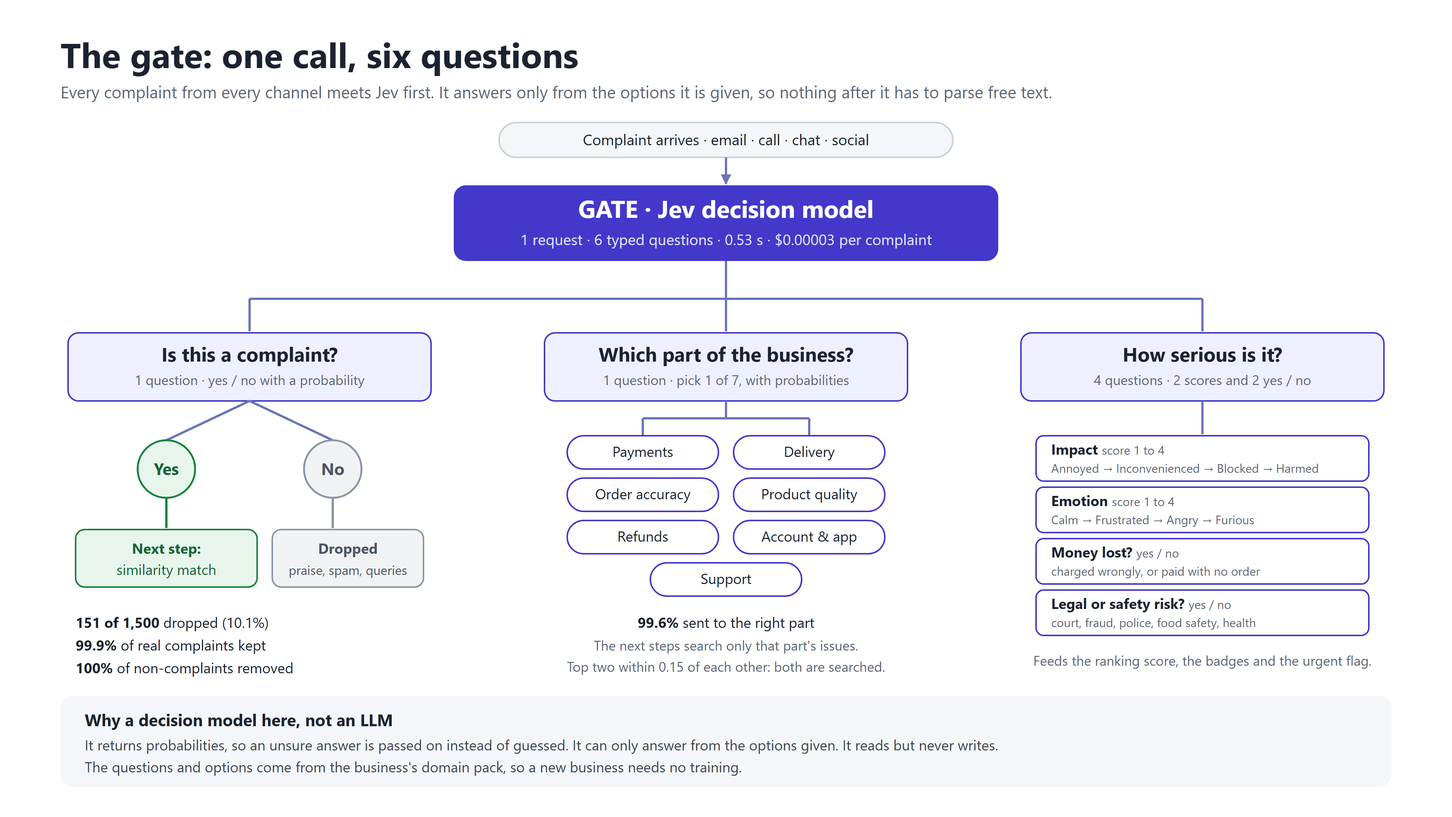
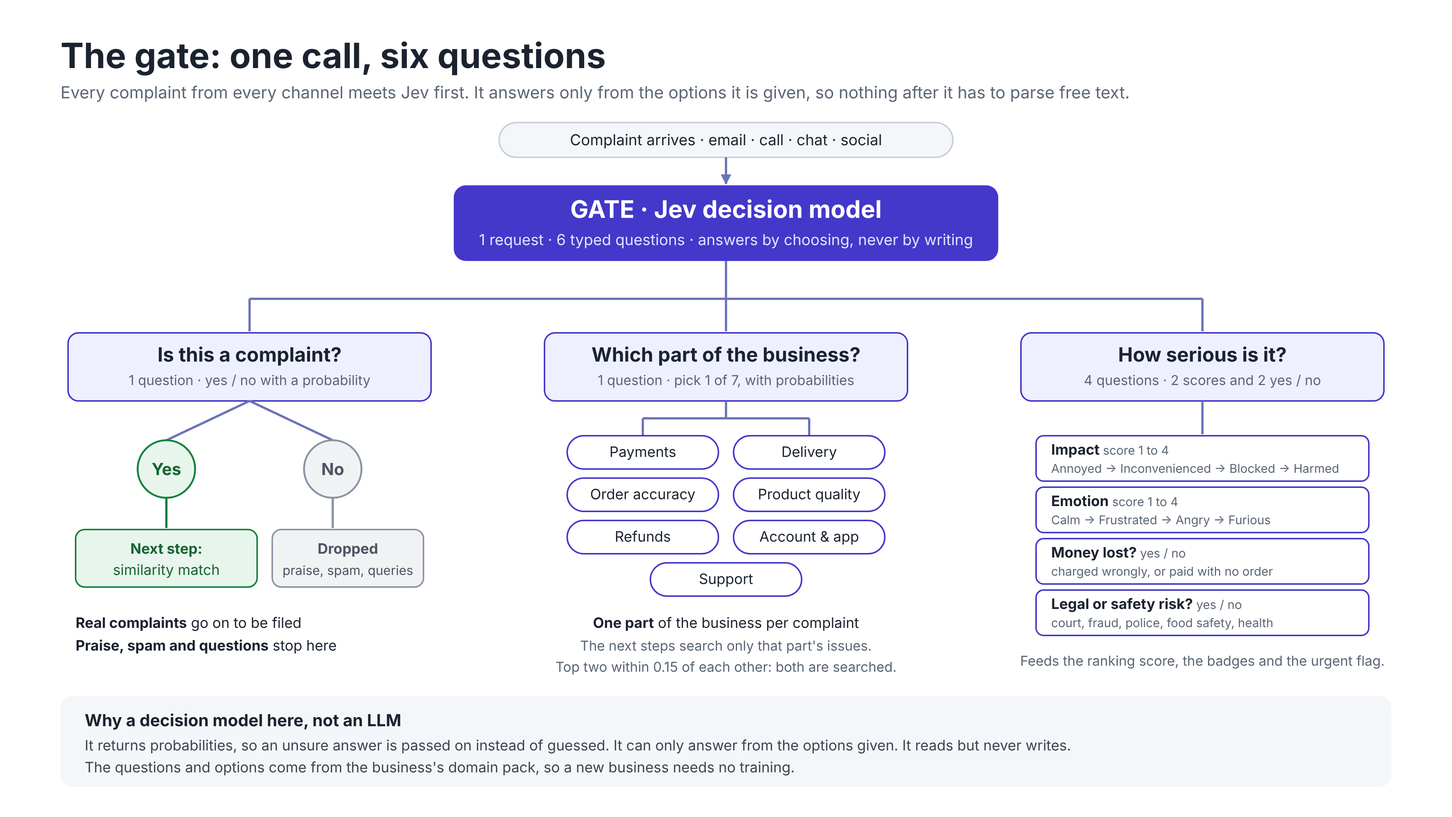
Remove test-run numbers from the deck and diagrams
Only the three headline numbers stay (65-85% cheaper, 96% fewer output
tokens, 2.3x faster). Backup slides are rewritten in words, the close
repeats the headlines, and the gate, funnel and Jev/LLM diagrams are
stripped of run figures and re-rendered. Also drops a leftover
discovered-itself line on the demo slide.

Claude-Session: https://claude.ai/code/session_014wJRZnMHXGCu4hqsJpRMMQ

diff --git a/docs/deck/project/slides/journey.html b/docs/deck/project/slides/journey.html
@@ -9,13 +9,13 @@
 <div class="hop fragment" data-fragment-index="3"><x-shape kind="arrow-right" style="width:40px; height:24px; background:#4338CA"></x-shape></div>
 <div class="step fragment" data-fragment-index="3"><p class="step-n">3</p><h3>Recognised</h3><p class="step-text">Linked to the customer, so a repeat contact counts once.</p></div>
 <div class="hop fragment" data-fragment-index="4"><x-shape kind="arrow-right" style="width:40px; height:24px; background:#4338CA"></x-shape></div>
-<div class="step fragment" data-fragment-index="4"><p class="step-n">4</p><h3>Filed</h3><p class="step-text">Under “Money debited but order not placed”, in about a second.</p></div>
+<div class="step fragment" data-fragment-index="4"><p class="step-n">4</p><h3>Filed</h3><p class="step-text">Under “Money debited but order not placed”, in seconds.</p></div>
 <div class="hop fragment" data-fragment-index="5"><x-shape kind="arrow-right" style="width:40px; height:24px; background:#4338CA"></x-shape></div>
-<div class="step done fragment" data-fragment-index="5"><p class="step-n">5</p><h3>Ranked</h3><p class="step-text">#1 in the Top 10: 67 customers affected, Critical.</p></div>
+<div class="step done fragment" data-fragment-index="5"><p class="step-n">5</p><h3>Ranked</h3><p class="step-text">Counted in the Top 10, with its customers and severity.</p></div>
 </div>
 <div class="spacer"></div>
 <div class="strip fragment" data-fragment-index="6">
 <p class="tip"><b>Money lost or a safety risk?</b> Flagged urgent from the very first report.</p>
 </div>
-<aside>Show this on the second laptop while you demo the prototype. Click once per step as the app does it. 1, it arrives: any channel, any language, here Hinglish on chat. 2, it is understood: the system decides this is a real complaint, that it is about payments, that money was lost and the impact is high. Praise, spam and questions are set aside here. 3, it is recognised: the complaint is tied to the customer, so someone who emails, calls and tweets counts as one person, not three. 4, it is filed under the right recurring problem, typically in about a second. 5, it moves the ranking: this problem is number 1 in the Top 10, 67 customers, Critical, and every score has a written reason. Last click: a single report of lost money or a safety risk is flagged urgent straight away. Do not name the models here; that comes later.</aside>
+<aside>Show this on the second laptop while you demo the prototype. Click once per step as the app does it. 1, it arrives: any channel, any language, here Hinglish on chat. 2, it is understood: the system decides this is a real complaint, that it is about payments, that money was lost and the impact is high. Praise, spam and questions are set aside here. 3, it is recognised: the complaint is tied to the customer, so someone who emails, calls and tweets counts as one person, not three. 4, it is filed under the right recurring problem in seconds. 5, it moves the ranking: the problem's place in the Top 10 updates, with the number of customers affected, its severity and a written reason for its score. Last click: a single report of lost money or a safety risk is flagged urgent straight away. Do not name the models here; that comes later.</aside>
 </section>

diff --git a/docs/deck/project/slides/roles.html b/docs/deck/project/slides/roles.html
@@ -1,4 +1,4 @@
 <section id="roles" class="full">
-<img src="/_blob/4d0bb51e65e73df4c753d2590c4e7d5b" alt="Who does what. Jev, a decision model, picks from options and returns probabilities: the gate on every complaint (1,500 calls, $0.046, 0.53 s each), verify for unsure matches (595 calls), and a group check before a new issue (7 calls). Local and free: intake and identity, similarity match (50.3% of complaints), the buffer, ranking and segments. The LLM, Claude Haiku 5.5, writes and judges in words: adjudicate the last unsure few (58 calls, 1.7% of complaints), name each new issue (6 calls), and the Curator after each batch (6 calls). Total: 96.1% never reach the LLM, 98.4% filed correctly, $0.065 for 1,500, 0.55 s median.">
-<aside>How Jev works, and who does what. Three workers, by colour. Top row, Jev: a decision model. You give it the complaint and a list of questions with fixed options, and it returns a choice and a probability for each, never free text. It does three jobs. The gate: one call per complaint, six questions, is it a complaint, which area, impact, emotion, money lost, legal risk. Verify: when a match is unsure, is this the same problem as these three, yes or no. Group check: before we create a new problem, is this a known one in new words. Middle row, green, is free and runs on the laptop: reading the channels, finding the customer, matching by meaning, the waiting list, and the ranking. Bottom row, the LLM, Claude Haiku: only where words are needed. Deciding the last unsure 1.7 percent, naming new problems, and merging duplicates. 58 decision calls in the whole run of 1,500. Jev needs no training: the labels come from the business's settings file per request, so a new business only writes that file.</aside>
+<img src="/_blob/4eff7c9269a37d8034c0d4c7d377d106" alt="Who does what. Jev, a decision model, picks from options and returns probabilities: the gate on every complaint, verify for unsure matches, and a group check before a new issue. Local and free: intake and identity, similarity match (files most complaints on its own), the buffer, ranking and segments. The LLM, Claude Haiku 5.5, writes and judges in words: adjudicate the last unsure few, name each new issue, and the Curator after each batch. The idea: cheapest step first.">
+<aside>How Jev works, and who does what. Three workers, by colour. Top row, Jev: a decision model. You give it the complaint and a list of questions with fixed options, and it returns a choice and a probability for each, never free text. It does three jobs. The gate: one call per complaint, six questions, is it a complaint, which area, impact, emotion, money lost, legal risk. Verify: when a match is unsure, is this the same problem as these three, yes or no. Group check: before we create a new problem, is this a known one in new words. Middle row, green, is free and runs on the laptop: reading the channels, finding the customer, matching by meaning, the waiting list, and the ranking. Bottom row, the LLM, Claude Haiku: only where words are needed. Deciding the last unsure few, naming new problems, and merging duplicates. Jev needs no training: the labels come from the business's settings file per request, so a new business only writes that file.</aside>
 </section>

diff --git a/docs/deck/project/slides/flow.html b/docs/deck/project/slides/flow.html
@@ -1,4 +1,4 @@
 <section id="flow" class="full">
 <img src="/_blob/81e2877fdc67381e24b813c59d558ac9" alt="How a complaint flows, step by step. 1 Intake and identity (local, free). 2 Gate (Jev): not a complaint is removed; a complaint gets area, severity, money lost and legal risk. 3 Similarity match (local, free): clearly a known problem is filed; like nothing known goes to the waiting list. 4 Verify (Jev): confident yes is filed. 5 Decide (LLM): only if still unsure. 6 Waiting list: fewer than 3 different customers keeps waiting; money lost or safety risk is flagged urgent at once. 7 Group check (Jev). 8 Name the new problem (LLM). After each batch: 9 Remove duplicates (LLM) and 10 Rank (local, free): Top 10 with each score explained, filterable by state, age group or student status.">
-<aside>The whole flow, top to bottom. Colour shows who does the work: green is free on our machine, blue is Jev, orange is the LLM. 1, intake: four channels become one format and we find the customer; order IDs are checked for typos with a check digit. 2, the gate: Jev answers six questions in one call; praise, spam and questions are removed, 10 percent of the run. 3, similarity match: free, files half of all complaints on its own. 4, verify: only for unsure matches, Jev answers same problem yes or no; another 35 percent filed. 5, decide: the LLM only if still unsure, 1.7 percent. 6, the waiting list: things that match nothing wait until 3 different customers report them, except lost money or safety risk, which is flagged urgent at once. 7, group check: Jev asks if it is a known problem in new words. 8, if not, the LLM names the new problem. After each batch, 9, the LLM removes duplicate problems, and 10, the ranking builds the Top 10 with a written score anyone can check. Every confirmed wording becomes an example, so the system gets cheaper the longer it runs.</aside>
+<aside>The whole flow, top to bottom. Colour shows who does the work: green is free on our machine, blue is Jev, orange is the LLM. 1, intake: four channels become one format and we find the customer; order IDs are checked for typos with a check digit. 2, the gate: Jev answers six questions in one call; praise, spam and questions are removed. 3, similarity match: free, and it files most complaints on its own. 4, verify: only for unsure matches, Jev answers same problem yes or no. 5, decide: the LLM only if still unsure. 6, the waiting list: things that match nothing wait until 3 different customers report them, except lost money or safety risk, which is flagged urgent at once. 7, group check: Jev asks if it is a known problem in new words. 8, if not, the LLM names the new problem. After each batch, 9, the LLM removes duplicate problems, and 10, the ranking builds the Top 10 with a written score anyone can check. Every confirmed wording becomes an example, so the system gets cheaper the longer it runs.</aside>
 </section>

diff --git a/docs/deck/project/slides/numbers.html b/docs/deck/project/slides/numbers.html
@@ -1,11 +1,10 @@
 <section id="numbers" class="dark drop" data-transition="fade">
-<p class="eyebrow">SAME JOB · LIVE RUN, 1,500 COMPLAINTS</p>
+<p class="eyebrow">SAME JOB</p>
 <h2 class="title">Compared with an LLM reading every complaint</h2>
 <div class="row3">
-<div class="stat fragment"><p class="big">65–85%</p><p class="text">cheaper</p><p class="sub">vs Claude Haiku 5.5, with and without prompt caching</p></div>
-<div class="stat fragment"><p class="big">96%</p><p class="text">fewer output tokens</p><p class="sub">11,159 written in total vs about 295,000</p></div>
-<div class="stat fragment"><p class="big">2.3×</p><p class="text">faster</p><p class="sub">on average · 3.5× at the median (0.55 s vs 1.9 s+)</p></div>
+<div class="stat fragment"><p class="big">65–85%</p><p class="text">cheaper</p></div>
+<div class="stat fragment"><p class="big">96%</p><p class="text">fewer output tokens</p></div>
+<div class="stat fragment"><p class="big">2.3×</p><p class="text">faster</p></div>
 </div>
-<p class="note fragment">Our side measured live with the real models. The LLM-everywhere side is projected from token counts calibrated on 12 real calls.</p>
-<aside>Pause, then drop the numbers one click at a time. One: 65 to 85 percent cheaper than the cheapest LLM-everywhere setup, Claude Haiku 5.5: 65 to 76 percent cheaper even when Haiku gets the best prompt caching, 85 percent without caching. Two: 96 percent fewer output tokens. Across the whole run we wrote 11,159 output tokens; reading every complaint with an LLM would write about 295,000. Most of our work is choosing, not writing, so it produces almost no output. Three: 2.3 times faster on average and 3.5 times at the median: a typical complaint is filed in 0.55 seconds, while one LLM call alone takes 1.9 seconds or more. Last line, say it out loud: our numbers were measured live; the comparison side is projected from calibrated token counts, not run. If asked about tokens overall: we use about 55 to 60 percent fewer tokens in total, but most of ours go to a decision model that is far cheaper per token than an LLM, so the cost saving is bigger than the token saving.</aside>
+<aside>Pause, then drop the numbers one click at a time. One: 65 to 85 percent cheaper than having an LLM read every complaint. Two: 96 percent fewer output tokens: most of our work is choosing, not writing, so we produce almost no output. Three: 2.3 times faster. If asked how this was measured: our side was measured on our test run with the real models; the LLM-everywhere side is projected from calibrated token counts, not run. If asked about tokens overall: the total token saving is smaller than the cost saving, because most of our tokens go to a decision model that is far cheaper per token than an LLM.</aside>
 </section>

diff --git a/docs/deck/project/slides/accuracy.html b/docs/deck/project/slides/accuracy.html
@@ -1,13 +1,14 @@
 <section id="accuracy">
-<p class="eyebrow">BACKUP · ACCURACY · LIVE RUN, 1,500 COMPLAINTS</p>
-<h2 class="title">Measured against an answer key</h2>
+<p class="eyebrow">BACKUP · ACCURACY</p>
+<h2 class="title">Checked against an answer key</h2>
 <table class="table">
-<tr><th>CHECK</th><th>RESULT</th></tr>
-<tr><td>Filed under the right issue</td><td>98.4% of 1,325</td></tr>
-<tr><td>Real complaints kept</td><td>99.9%</td></tr>
-<tr><td>Praise, spam and questions removed</td><td>100%</td></tr>
-<tr><td>Sent to the right part of the business</td><td>99.6%</td></tr>
-<tr><td>Customer links correct</td><td>100% of 1,215 (0 wrong)</td></tr></table>
-<p class="note">Template-generated data with a fixed seed. The engine never sees the answer key. Real complaints will be messier.</p>
-<aside>Every complaint in the test data has a hidden answer: which issue it belongs to and which customer sent it. The engine never sees it; we only use it to score. By step: free matching was 99.2 percent right, Jev's verify 97.3, the LLM 96.2, new issues 100. Be honest: the data was generated from templates, so it is cleaner than real complaints, and the cut-offs were tuned on this same data. On real data we would tune on one labelled sample and measure on another.</aside>
+<tr><th>CHECK</th><th>HOW IT IS SCORED</th></tr>
+<tr><td>Filed under the right issue</td><td>each complaint against its true issue</td></tr>
+<tr><td>Real complaints kept</td><td>no real complaint dropped at the gate</td></tr>
+<tr><td>Praise, spam and questions removed</td><td>none of them reach the issue list</td></tr>
+<tr><td>Sent to the right part of the business</td><td>each complaint against its true area</td></tr>
+<tr><td>Customer links correct</td><td>each link against the true customer</td></tr>
+</table>
+<p class="note">Every test complaint carries a hidden answer. The engine never sees it; it is used only to score. Real complaints will be messier than the test data.</p>
+<aside>Every complaint in the test data has a hidden answer: which issue it belongs to, which area, and which customer sent it. The engine never sees it; we only use it to score each step. Be honest: the data was generated from templates, so it is cleaner than real complaints, and the cut-offs were tuned on this same data. On real data we would tune on one labelled sample and measure on another.</aside>
 </section>

diff --git a/docs/deck/project/slides/ranking.html b/docs/deck/project/slides/ranking.html
@@ -2,13 +2,13 @@
 <p class="eyebrow">BACKUP · RANKING</p>
 <h2 class="title">A score anyone can check with a calculator</h2>
 <p class="formula">customers × impact × (1 + money share) × (1 + 0.25 × anger share) × trend</p>
-<p class="example">Duplicate payment debits: 52 × 3.69 × 2.00 × 1.14 × 1.25 = <b>547.3</b> · Critical, rising</p>
 <table class="table">
-<tr><th>RANK</th><th>ISSUE</th><th>CUSTOMERS</th><th>LEVEL</th></tr>
-<tr><td>1</td><td>Money debited but order not placed</td><td>67</td><td>Critical</td></tr>
-<tr><td>2</td><td>Duplicate payment debits after app update</td><td>52</td><td>Critical, rising</td></tr>
-<tr><td>3</td><td>Marked delivered but not received</td><td>74</td><td>Critical</td></tr>
-<tr><td>4</td><td>Refund not received</td><td>46</td><td>Critical</td></tr>
+<tr><th>FACTOR</th><th>WHY IT IS THERE</th></tr>
+<tr><td>Customers</td><td>people affected, not messages sent</td></tr>
+<tr><td>Impact</td><td>from annoyed to harmed</td></tr>
+<tr><td>Money share</td><td>lost money weighs heavily</td></tr>
+<tr><td>Anger share</td><td>kept small, so loud never beats hurt</td></tr>
+<tr><td>Trend</td><td>a boost when a problem is rising</td></tr>
 </table>
-<aside>The ranking is a written formula, not a black box. Customers, not messages, times average impact from 1 to 4, times one plus the share with money lost, times a small anger factor capped at 1.25 so a loud customer never outranks a quiet one who lost money, times 1.25 if the problem is rising. Rising means at least 5 customers in the last 7 days and at least double the week before. Example: duplicate payment debits, 52 customers, scores 547.3.</aside>
+<aside>The ranking is a written formula, not a black box. Customers, not messages, times average impact from 1 to 4, times one plus the share with money lost, times a small anger factor capped at 1.25 so a loud customer never outranks a quiet one who lost money, times 1.25 if the problem is rising. Rising means at least 5 customers in the last 7 days and at least double the week before. Every issue in the Top 10 shows this breakdown.</aside>
 </section>

diff --git a/docs/deck/project/slides/funnel.html b/docs/deck/project/slides/funnel.html
@@ -1,4 +1,4 @@
 <section id="funnel" class="full">
-<img src="/_blob/f38c4ada4806d23dd333313e32a0aed1" alt="The full funnel: intake, gate, similarity match, verify, LLM adjudicate, buffer to new issue, issue registry, Curator, rank, Top 10. Live run results: 96.1% never reached an LLM, 98.4% filed under the right issue, $0.065 total, 0.55 s median, 99.6% sent to the right area.">
-<aside>Walk left to right. 1 Intake turns four channels into one shape and works out who the customer is. 2 The gate, Jev, drops non-complaints and picks the area: 10 percent dropped. 3 Similarity match, local and free, files half of all complaints. 4 Jev's yes/no check files another 35 percent. 5 Only 1.7 percent reach the LLM. 6 Anything new waits in the buffer until 3 different customers report it; then the LLM names a new issue. Every confirmed verdict becomes an example, so the system gets cheaper as it runs. After each batch the Curator merges duplicates, and the ranker builds the Top 10.</aside>
+<img src="/_blob/32692cd67b6d245a0dc665da8859b6ee" alt="The full funnel: intake, gate, similarity match, verify, LLM adjudicate, buffer to new issue, issue registry, Curator, rank, Top 10. Each complaint stops at the cheapest step that can file it: free matching first, then Jev's yes or no, and the LLM only for what nothing cheaper can decide.">
+<aside>Walk left to right. 1 Intake turns four channels into one shape and works out who the customer is. 2 The gate, Jev, drops non-complaints and picks the area. 3 Similarity match, local and free, files most complaints on its own. 4 Jev's yes/no check files the unsure ones. 5 Only the last few reach the LLM. 6 Anything new waits in the buffer until 3 different customers report it; then the LLM names a new issue. Every confirmed verdict becomes an example, so the system gets cheaper as it runs. After each batch the Curator merges duplicates, and the ranker builds the Top 10.</aside>
 </section>

diff --git a/docs/deck/project/slides/idea.html b/docs/deck/project/slides/idea.html
@@ -2,5 +2,5 @@
 <p class="eyebrow">OUR IDEA</p>
 <h1>Choose, don't write.</h1>
 <p class="say">Filing a complaint is a set of choices: is it a complaint, which area, which known problem. A decision model makes those choices. The LLM writes only when something new needs words.</p>
-<aside>Here is why the numbers look like that. An LLM is a writer: you pay for it to produce text, and it is slow because it produces text. But filing a complaint is not a writing task. It is a set of choices from options we already have: is this a complaint, yes or no; which of seven areas; how serious; which known problem. So we use a classifier, a decision model called Jev, that picks from given options and returns probabilities instead of writing. It writes no output tokens at all. When it is sure, the complaint is filed. When it is unsure, it says so instead of guessing, and only then do we pass it on. Cheapest step first: a free local match, then Jev's yes or no, and only the last 1.7 percent reach the LLM. The LLM's real job is naming new problems and merging duplicates, where words are actually needed.</aside>
+<aside>Here is why the numbers look like that. An LLM is a writer: you pay for it to produce text, and it is slow because it produces text. But filing a complaint is not a writing task. It is a set of choices from options we already have: is this a complaint, yes or no; which of seven areas; how serious; which known problem. So we use a classifier, a decision model called Jev, that picks from given options and returns probabilities instead of writing. It writes no output tokens at all. When it is sure, the complaint is filed. When it is unsure, it says so instead of guessing, and only then do we pass it on. Cheapest step first: a free local match, then Jev's yes or no, and only the last few reach the LLM. The LLM's real job is naming new problems and merging duplicates, where words are actually needed.</aside>
 </section>

diff --git a/docs/deck/project/slides/gate.html b/docs/deck/project/slides/gate.html
@@ -1,4 +1,4 @@
 <section id="gate" class="full">
-<img src="/_blob/f6b13f7876e8ad7771110eb12ce69c81" alt="The gate: one Jev call with six questions. Is this a complaint (yes goes on, no is dropped: 151 of 1,500). Which of 7 parts of the business (99.6% correct). How serious: impact, emotion, money lost, legal or safety risk.">
-<aside>The gate is one call to Jev, a decision model, with six questions: is it a complaint, which of the seven areas, impact, emotion, money lost, legal or safety risk. A decision model fits because every answer is a choice, not writing: it returns probabilities, so an unsure answer is passed on instead of guessed, and it costs three thousandths of a cent per complaint. The questions come from the business's settings file, so a new business needs no training.</aside>
+<img src="/_blob/05b39ef5e9194c382f12d7c5c405e989" alt="The gate: one Jev call with six questions, answered by choosing, never by writing. Is this a complaint: yes goes on to be filed, no is dropped (praise, spam, questions). Which of 7 parts of the business: the next steps search only that part's issues. How serious: impact, emotion, money lost, legal or safety risk.">
+<aside>The gate is one call to Jev, a decision model, with six questions: is it a complaint, which of the seven areas, impact, emotion, money lost, legal or safety risk. A decision model fits because every answer is a choice, not writing: it returns probabilities, so an unsure answer is passed on instead of guessed, and it writes nothing, so it is fast and cheap. The questions come from the business's settings file, so a new business needs no training.</aside>
 </section>

diff --git a/docs/deck/project/slides/segments.html b/docs/deck/project/slides/segments.html
@@ -2,9 +2,9 @@
 <p class="eyebrow">BACKUP · CUSTOMER GROUPS</p>
 <h2 class="title">It shows who is hit hardest</h2>
 <div class="cards">
-<div class="card"><p class="big">2.4×</p><p class="text">Students are 2.4 times as likely to hit UPI payment timeouts: 29.7% of students vs 12.5% of all customers.</p></div>
-<div class="card"><p class="big">1.75×</p><p class="text">Maharashtra is 1.75 times as likely to report “delivered but not received”: 32.3% vs 18.5%.</p></div>
+<div class="card"><h3>Students</h3><p class="text">Hit UPI payment timeouts far more often than other customers.</p></div>
+<div class="card"><h3>Maharashtra</h3><p class="text">Reports “delivered but not received” more than the rest of the country.</p></div>
 </div>
 <p class="note">Rate = customers affected ÷ size of the group, so a big group does not look worst just for being big. Both patterns were planted in the test data, and both show up in the heatmap.</p>
-<aside>Every customer has a state, an age group and student status. For each issue we compare the rate inside a group with the overall rate. Students hit UPI timeouts 2.4 times as often; Maharashtra reports delivered-but-not-received 1.75 times as often. Both were planted in the mock data, and both show up in the heatmap.</aside>
+<aside>Every customer has a state, an age group and student status. For each issue we compare the rate inside a group with the overall rate. Students hit UPI timeouts far more often; Maharashtra reports delivered-but-not-received more than elsewhere. Both were planted in the mock data, and both show up in the heatmap.</aside>
 </section>

diff --git a/docs/deck/project/slides/llm.html b/docs/deck/project/slides/llm.html
@@ -2,8 +2,8 @@
 <p class="eyebrow">THE USUAL WAY</p>
 <h2 class="title">Have an LLM read every complaint. It works, but…</h2>
 <div class="cards">
-<div class="card fragment"><p class="big">1.9 s+</p><p class="text">every complaint waits on the model</p></div>
-<div class="card fragment"><p class="big">~200</p><p class="text">output tokens written per complaint, every time</p></div>
+<div class="card fragment"><h3>Slow</h3><p class="text">Every complaint waits while the model reads it and writes an answer.</p></div>
+<div class="card fragment"><h3>Expensive</h3><p class="text">It writes an answer for every single complaint, and output tokens are the costly ones.</p></div>
 </div>
-<aside>Pause before this slide. Then: the usual way to build this is to send every complaint to an LLM and let it decide. It works, but two things go wrong. Click: every complaint waits on the model, at least 1.9 seconds, measured on Claude Haiku 5.5 with a short prompt, so a real everything-prompt is slower. Click: the LLM writes an answer for every single complaint, about 200 tokens each, and output tokens are the expensive ones. Then pause again before the numbers.</aside>
+<aside>Pause before this slide. Then: the usual way to build this is to send every complaint to an LLM and let it decide. It works, but two things go wrong. Click: it is slow, because every complaint waits for the model to read it and write a reply. Click: it is expensive, because the LLM writes an answer for every single complaint, and output tokens are the expensive part. Then pause again before the numbers.</aside>
 </section>

diff --git a/docs/deck/project/slides/close.html b/docs/deck/project/slides/close.html
@@ -2,11 +2,11 @@
 <p class="eyebrow">HACKSTELLAR · PS-19</p>
 <h1>Complaint Compass</h1>
 <div class="row3">
-<div class="stat rise" style="--i:1"><p class="big">0.55 s</p><p class="text">to file a typical complaint</p></div>
-<div class="stat rise" style="--i:2"><p class="big">96.1%</p><p class="text">never wait on an LLM</p></div>
-<div class="stat rise" style="--i:3"><p class="big">98.4%</p><p class="text">filed under the right issue</p></div>
+<div class="stat rise" style="--i:1"><p class="big">65–85%</p><p class="text">cheaper</p></div>
+<div class="stat rise" style="--i:2"><p class="big">96%</p><p class="text">fewer output tokens</p></div>
+<div class="stat rise" style="--i:3"><p class="big">2.3×</p><p class="text">faster</p></div>
 </div>
 <div class="spacer"></div>
 <p class="lead">Thank you. Questions?</p>
-<aside>Close on three numbers: a typical complaint is filed in 0.55 seconds, 96 percent never wait on an LLM, which is why it is fast and cheap, and 98.4 percent are filed under the right issue. Then take questions. Backup slides follow for accuracy, ranking, customer groups, other businesses and limits.</aside>
+<aside>Close on the three numbers against an LLM reading every complaint: 65 to 85 percent cheaper, 96 percent fewer output tokens, 2.3 times faster. Then take questions. Backup slides follow for accuracy, ranking, customer groups, other businesses and limits.</aside>
 </section>
